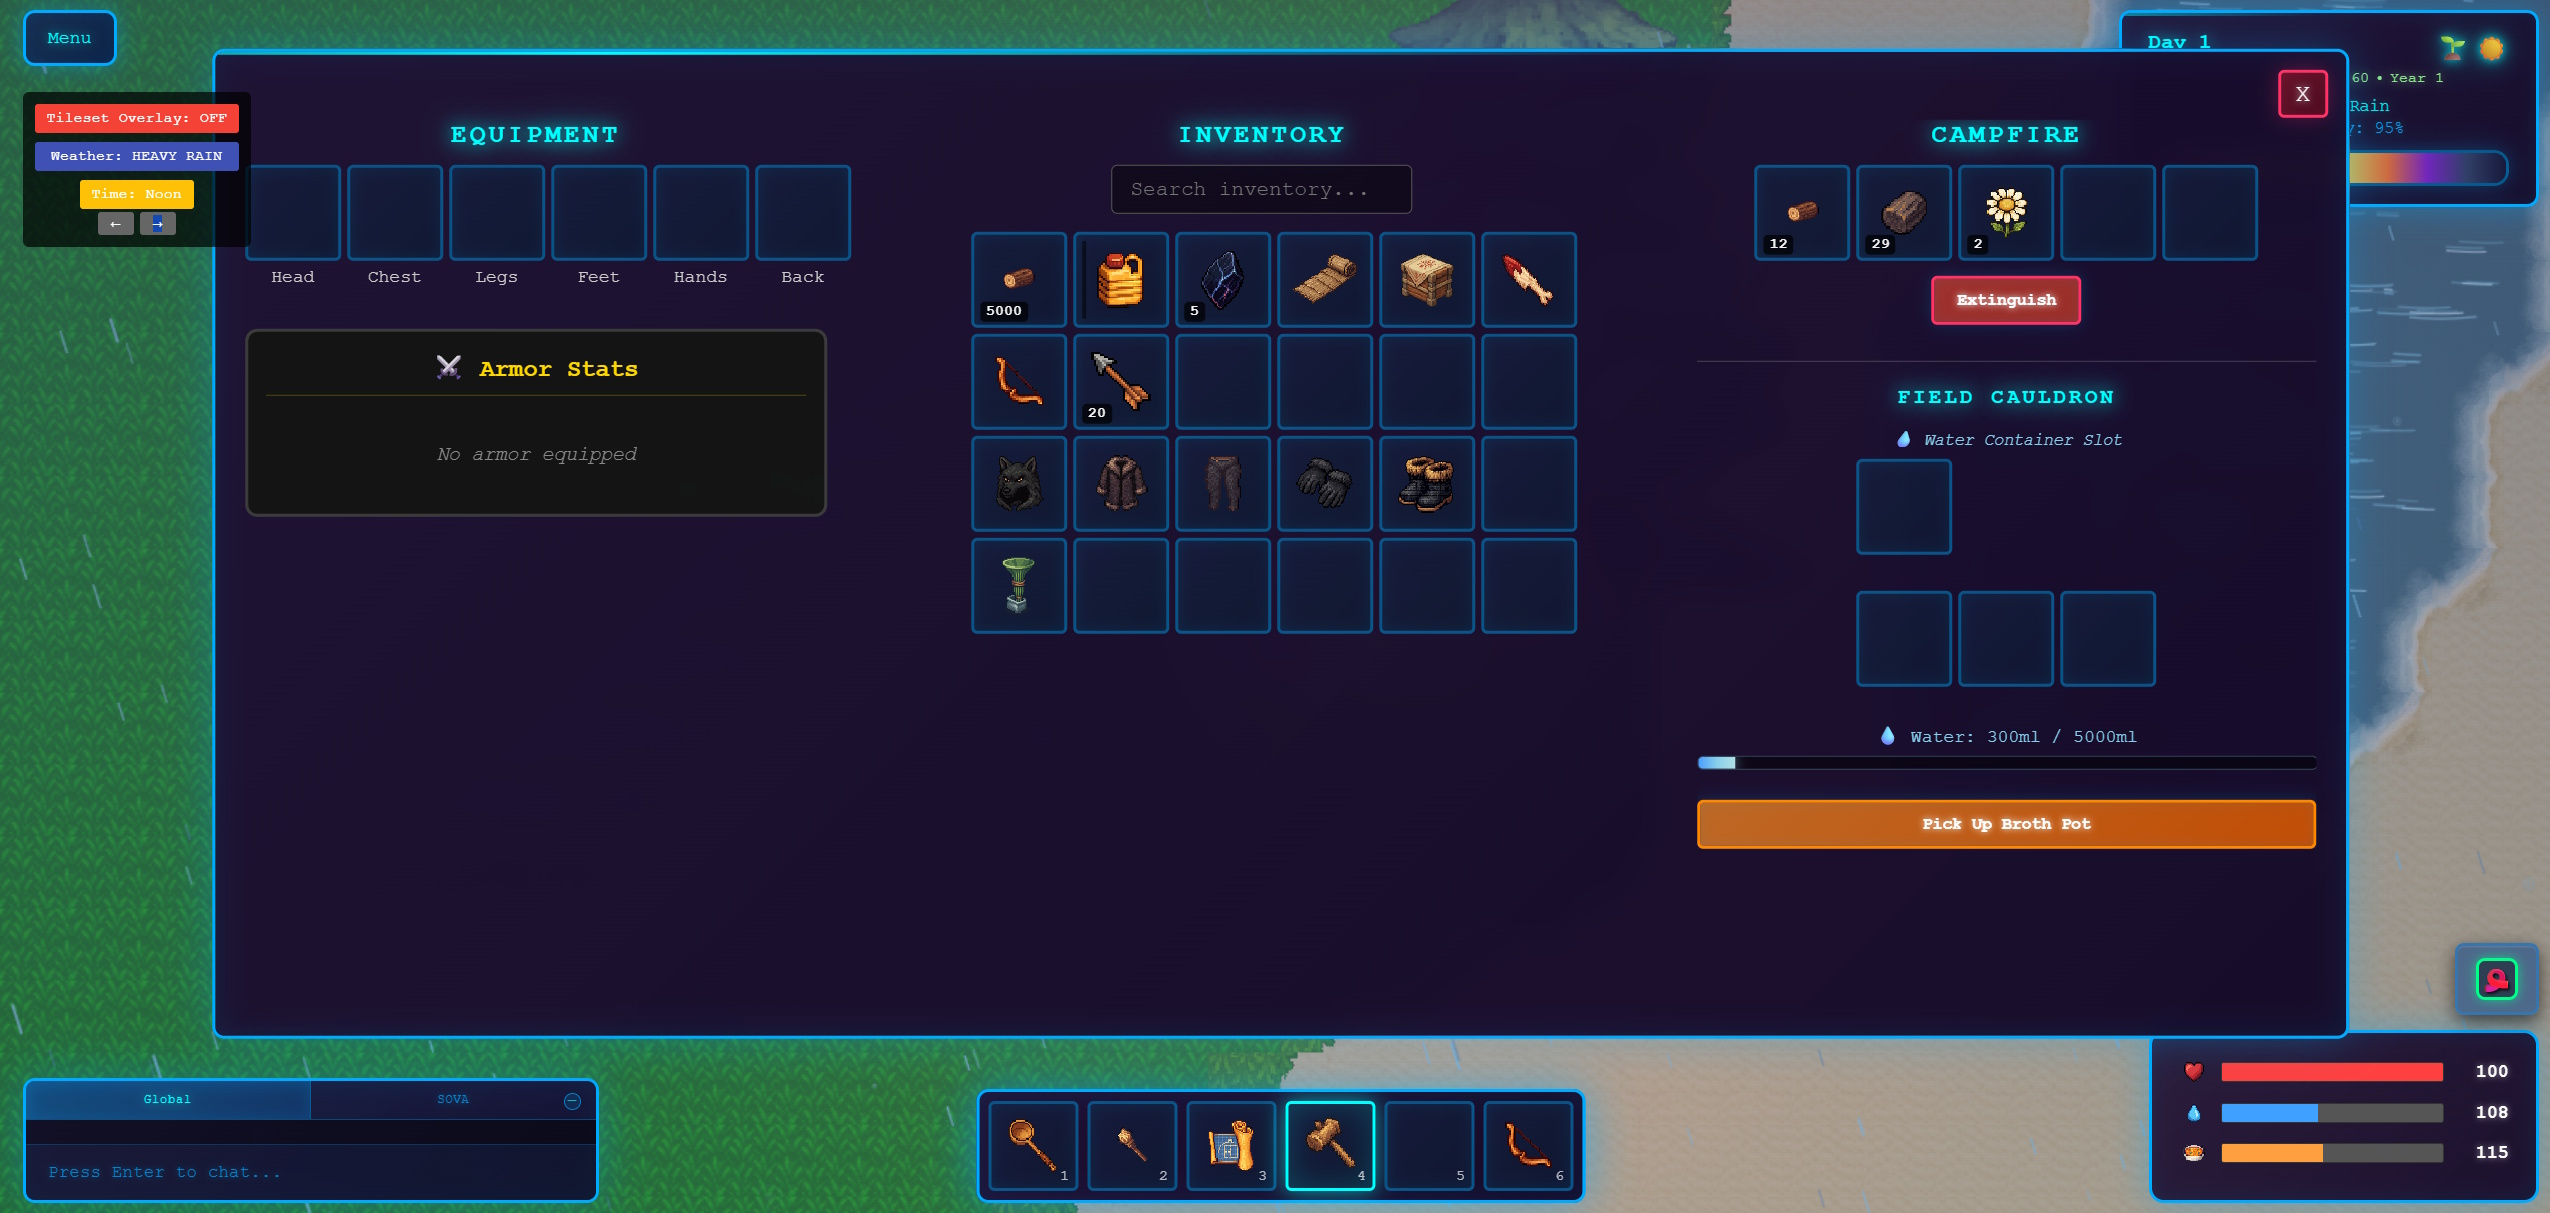
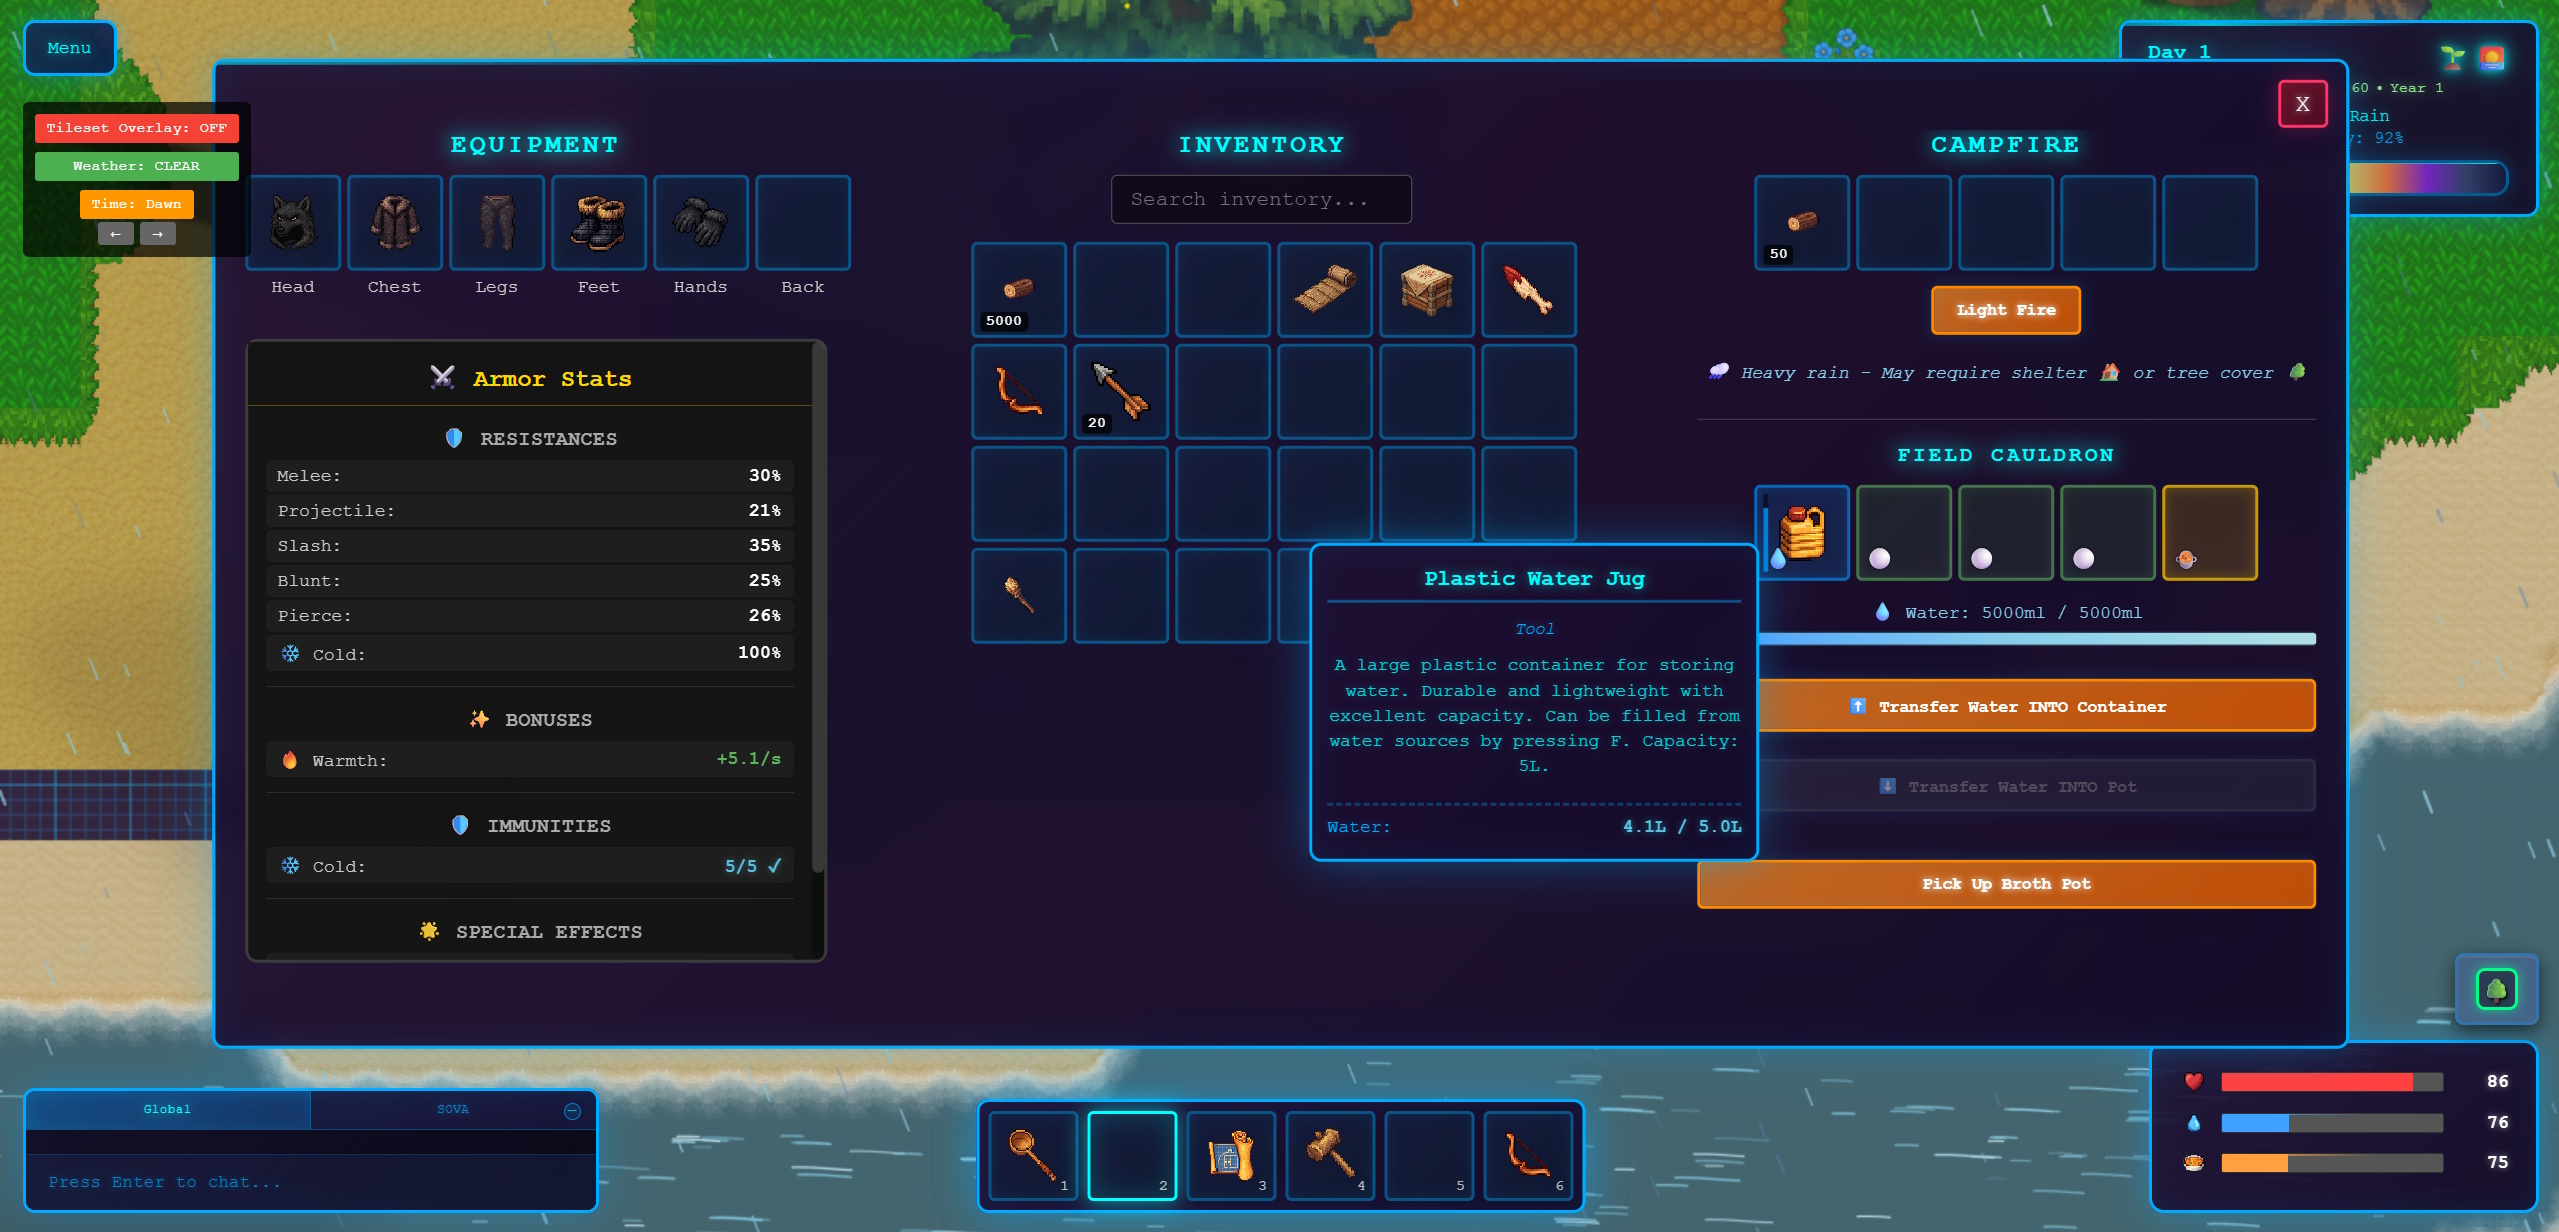
field cauldron UI

diff --git a/client/src/components/ExternalContainerUI.tsx b/client/src/components/ExternalContainerUI.tsx
@@ -918,15 +918,15 @@ const ExternalContainerUI: React.FC<ExternalContainerUIProps> = ({
                             Field Cauldron
                         </h3>
                         
-                        {/* All 4 slots in one row: Water Container + 3 Ingredient slots */}
+                        {/* All 5 slots in one row: Water Container + 3 Ingredient slots + Output slot */}
                         <div style={{ display: 'flex', justifyContent: 'center', width: '100%', marginBottom: '12px' }}>
                             <div style={{ 
                                 display: 'grid',
-                                gridTemplateColumns: 'repeat(4, 1fr)',
+                                gridTemplateColumns: 'repeat(5, 1fr)',
                                 gap: '4px',
                                 maxWidth: 'fit-content'
                             }}>
-                                {/* Water Container Slot */}
+                                {/* Water Container Slot - Blue theme */}
                                 <DroppableSlot
                                     slotInfo={{
                                         type: 'broth_pot_water_container',
@@ -936,6 +936,11 @@ const ExternalContainerUI: React.FC<ExternalContainerUIProps> = ({
                                     onItemDrop={handleItemDropWithTracking}
                                     className={styles.slot}
                                     isDraggingOver={false}
+                                    style={{
+                                        border: '2px solid rgba(0, 150, 255, 0.6)',
+                                        background: 'linear-gradient(135deg, rgba(0, 100, 200, 0.2), rgba(0, 150, 255, 0.15))',
+                                        boxShadow: 'inset 0 0 8px rgba(0, 150, 255, 0.2)'
+                                    }}
                                 >
                                     {waterContainerItem && (
                                         <DraggableItem
@@ -1016,6 +1021,11 @@ const ExternalContainerUI: React.FC<ExternalContainerUIProps> = ({
                                             onItemDrop={handleItemDropWithTracking}
                                             className={styles.slot}
                                             isDraggingOver={false}
+                                            style={{
+                                                border: '2px solid rgba(100, 200, 100, 0.5)',
+                                                background: 'linear-gradient(135deg, rgba(50, 150, 50, 0.15), rgba(100, 200, 100, 0.1))',
+                                                boxShadow: 'inset 0 0 8px rgba(100, 200, 100, 0.15)'
+                                            }}
                                         >
                                             {itemInSlot && (
                                                 <DraggableItem
@@ -1029,7 +1039,7 @@ const ExternalContainerUI: React.FC<ExternalContainerUIProps> = ({
                                                     onMouseMove={onExternalItemMouseMove}
                                                 />
                                             )}
-                                            {/* Food icon in bottom left */}
+                                            {/* Generic ingredient icon in bottom left */}
                                             <div style={{
                                                 position: 'absolute',
                                                 bottom: '4px',
@@ -1039,11 +1049,73 @@ const ExternalContainerUI: React.FC<ExternalContainerUIProps> = ({
                                                 pointerEvents: 'none',
                                                 textShadow: '0 0 2px rgba(0, 0, 0, 0.8)'
                                             }}>
-                                                🍽
+                                                ⚪
                                             </div>
                                         </DroppableSlot>
                                     );
                                 })}
+                                
+                                {/* Output Slot (4th slot) - for brewed result */}
+                                {(() => {
+                                    const outputItem = attachedBrothPot.outputItemInstanceId 
+                                        ? (() => {
+                                            const instanceIdStr = attachedBrothPot.outputItemInstanceId!.toString();
+                                            const invItem = inventoryItems.get(instanceIdStr);
+                                            if (!invItem) return null;
+                                            const def = itemDefinitions.get(invItem.itemDefId.toString());
+                                            if (!def) return null;
+                                            return { instance: invItem, definition: def } as PopulatedItem;
+                                        })()
+                                        : null;
+                                    
+                                    const outputSlotInfo = {
+                                        type: getContainerConfig('broth_pot').slotType as any,
+                                        index: 3, // 4th slot (0-indexed)
+                                        parentId: attachedBrothPot.id
+                                    };
+                                    
+                                    return (
+                                        <DroppableSlot
+                                            key={`broth_pot_${attachedBrothPot.id}_output`}
+                                            slotInfo={outputSlotInfo}
+                                            onItemDrop={handleItemDropWithTracking}
+                                            className={styles.slot}
+                                            isDraggingOver={false}
+                                            style={{
+                                                border: '2px solid rgba(255, 200, 0, 0.7)',
+                                                background: 'linear-gradient(135deg, rgba(200, 150, 0, 0.2), rgba(255, 200, 0, 0.15))',
+                                                boxShadow: 'inset 0 0 8px rgba(255, 200, 0, 0.25)'
+                                            }}
+                                        >
+                                            {outputItem && (
+                                                <DraggableItem
+                                                    item={outputItem}
+                                                    sourceSlot={outputSlotInfo}
+                                                    onItemDragStart={onItemDragStart}
+                                                    onItemDrop={handleItemDropWithTracking}
+                                                    onContextMenu={(event) => brothPotCallbacks?.contextMenuHandler(event, outputItem, 3)}
+                                                    onMouseEnter={(e) => onExternalItemMouseEnter(outputItem, e)}
+                                                    onMouseLeave={onExternalItemMouseLeave}
+                                                    onMouseMove={onExternalItemMouseMove}
+                                                />
+                                            )}
+                                            {/* Soup icon in bottom left for output slot when empty */}
+                                            {!outputItem && (
+                                                <div style={{
+                                                    position: 'absolute',
+                                                    bottom: '4px',
+                                                    left: '4px',
+                                                    fontSize: '14px',
+                                                    zIndex: 5,
+                                                    pointerEvents: 'none',
+                                                    textShadow: '0 0 2px rgba(0, 0, 0, 0.8)'
+                                                }}>
+                                                    🍲
+                                                </div>
+                                            )}
+                                        </DroppableSlot>
+                                    );
+                                })()}
                             </div>
                         </div>
                         
